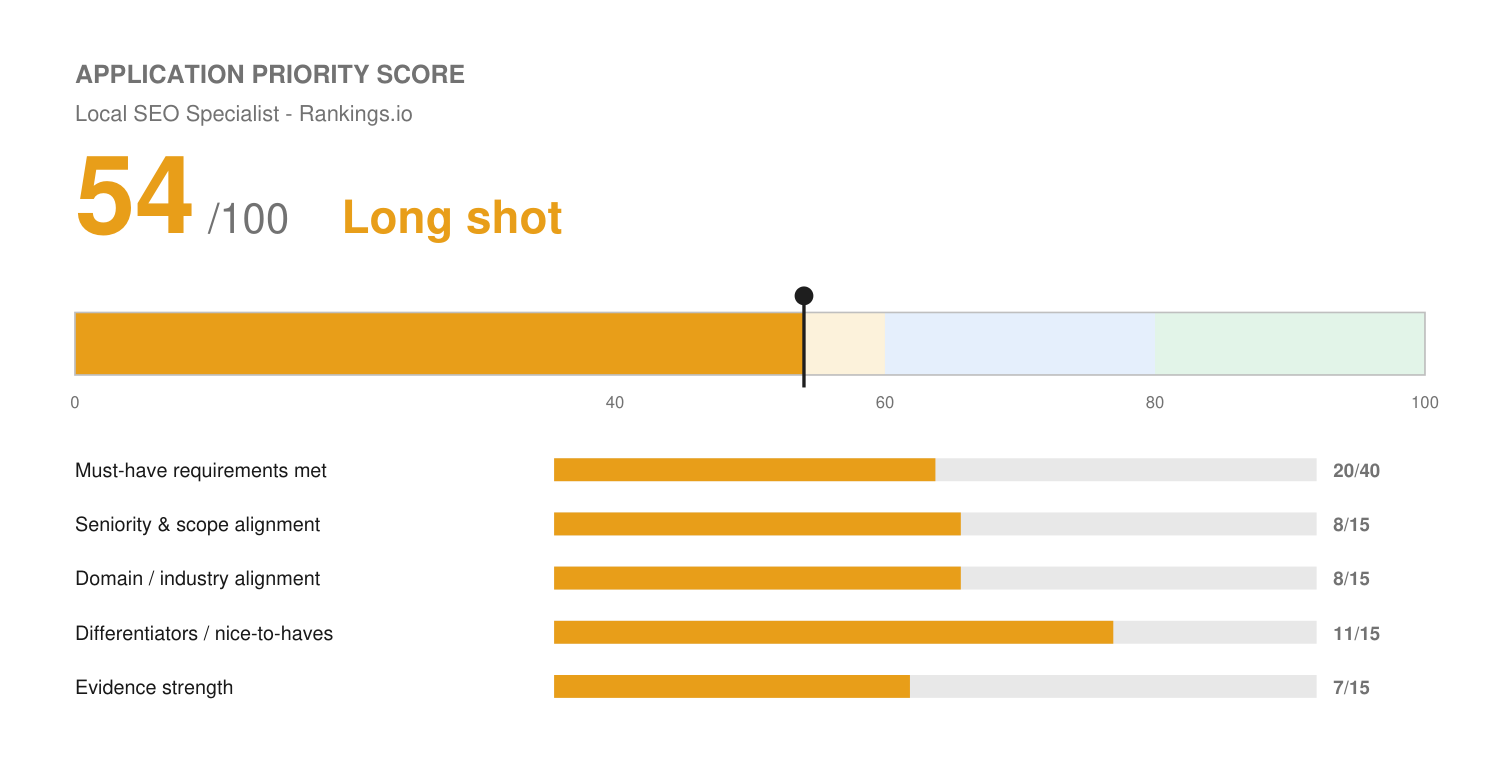
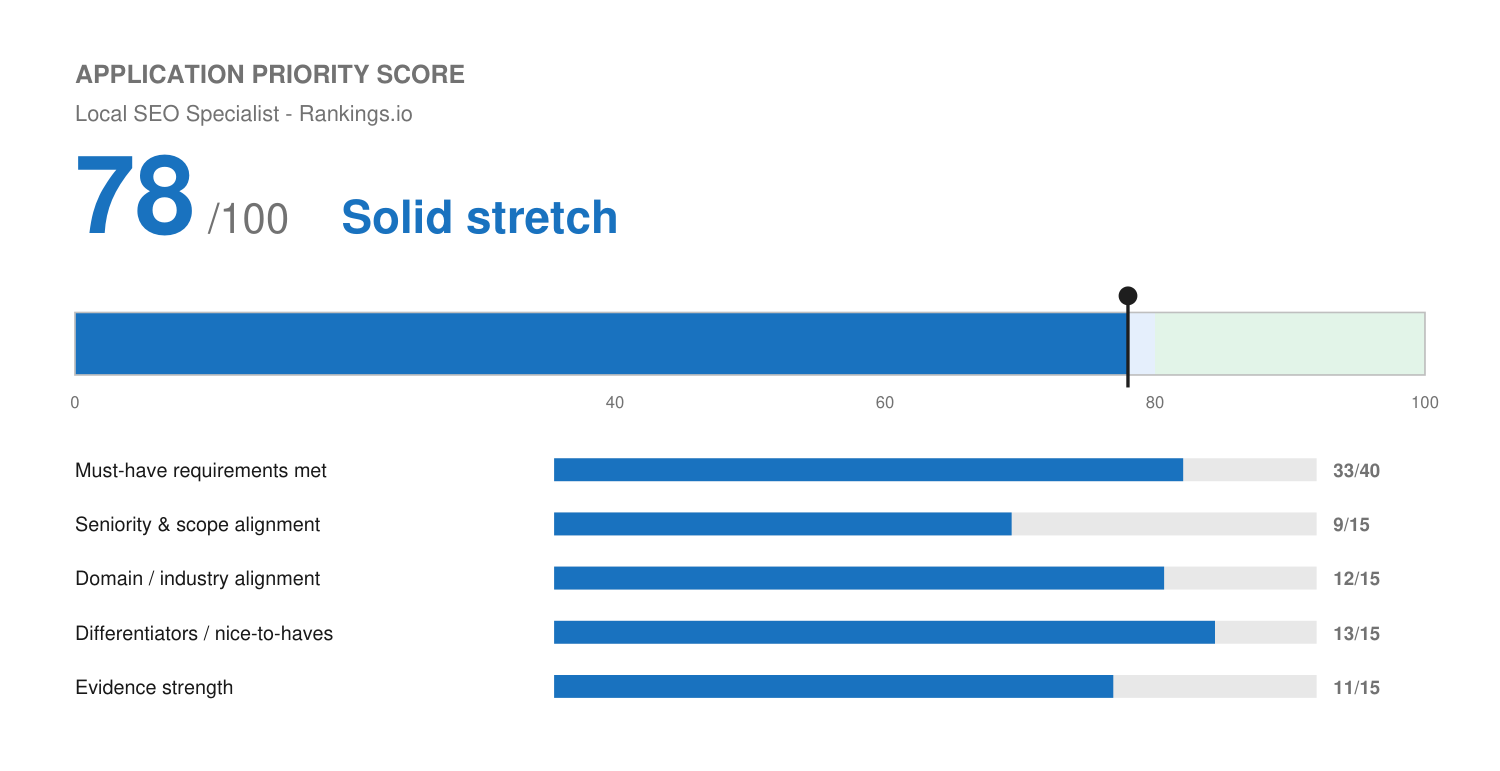
Correct GBP/local-listings experience across profile and Rankings.io app
Josh corrected a real error: GBP/local-listings management was
classified as a gap, but it's core, sold professional experience. At
Solenzo it's the first deliverable in every client engagement; at
Birdeye, selling and onboarding partners onto Birdeye's own
data-aggregator/listings-syndication solution was the backbone of the
channel offer he sold, and his actual entry into local search. He also
used Whitespark's citation research as sales enablement, and confirmed
his Wix growth consultations included GBP setup.

Updated master-profile.md (Solenzo, Birdeye, Wix bullet banks and Core
Competencies) so this is available for every future local-SEO-adjacent
posting. Rewrote the Rankings.io resume and cover letter to lead with
this experience instead of hedging around it. Score moved 54 -> 78
(Long shot -> Solid stretch) — a correction, not inflation.

Claude-Session: https://claude.ai/code/session_01HeZspKnLVkWbr9yhNEisQZ

diff --git a/applications/rankings-io-local-seo-specialist/match-report.md b/applications/rankings-io-local-seo-specialist/match-report.md
@@ -3,7 +3,20 @@
 **Company:** Rankings.io (SEM services for 300+ personal injury and other high-stakes law firms; founded 2013, ~180 employees)
 **Location:** St Louis, Remote (Fully Remote)
 **Salary:** Starting $55,000/year
-**Date:** 2026-09-15
+**Date:** 2026-09-15 (updated same day after Josh corrected an undersold section — see note below)
+
+---
+
+## Correction note
+
+The first pass of this match report classified GBP/local-listings management as a **gap**. That was wrong. Josh
+corrected it directly: GBP setup and optimization is the **first deliverable in every Solenzo client engagement**
+(a core, sold service line, not incidental), and at Birdeye, selling and onboarding partners onto Birdeye's own
+proprietary data-aggregator/listings-syndication solution was **the backbone of the channel offer** he sold,
+his actual professional introduction to local search. He also used Whitespark's published citation research as
+sales-enablement material, and confirmed his Wix growth consultations included setting up clients' Google
+Business Profile alongside their site builds. This has been corrected in `profile/master-profile.md` so it's
+available for every future local-SEO-adjacent posting, and the score below reflects the correction.
 
 ---
 
@@ -11,80 +24,89 @@
 
 | Item | Classification | Notes |
 | :--- | :--- | :--- |
-| **Salary expectation (required field)** | **Needs candidate confirmation — flag before applying** | Posting states a *starting* salary of $55,000. That's meaningfully below typical comp for 15+ years of account-management/marketing experience. Worth deciding your real number before applying rather than anchoring low by default — if $55K–$65K genuinely works for you, say so; if not, this is worth weighing before you invest time in their multi-stage process. Not answered on your behalf. |
+| **Salary expectation (required field)** | **Needs candidate confirmation — flag before applying** | Posting states a *starting* salary of $55,000. That's meaningfully below typical comp for 15+ years of account-management/marketing experience. Worth deciding your real number before applying rather than anchoring low by default. Not answered on your behalf. |
 | Work authorization (no visa sponsorship) | Application-form | No issue — U.S. citizen. Honest answer: yes, authorized, no sponsorship needed. |
 | Background check | Application-form | Nothing on file that would be disqualifying. Honest answer is yours to give, not assumed here. |
-| Willingness to complete a one-way video interview | **Candidate confirmation** | A personal-preference question, not an eligibility fact — some candidates dislike this format. Your call. |
+| Willingness to complete a one-way video interview | **Candidate confirmation** | A personal-preference question, not an eligibility fact. Your call. |
 | Remote work | Resume-evidenced / no issue | Fully remote, consistent with your own constraint. |
 | 1-2+ years agency SEO experience | Resume-evidenced | Met — Level Agency (agency), plus 4 years of SEO experience overall (Verified Metrics). |
-| 2+ years local SEO / listings management for enterprise brands | **Gap — central to the role** | No GBP, Google My Business, citation-management, or multi-location/enterprise local-listings experience anywhere in the profile. |
+| 2+ years local SEO / listings management for enterprise brand(s) | **Covered (strong), updated** | GBP/listings work is a core, sold service at Solenzo and was the backbone of the channel offer Josh sold at Birdeye. Real gap remaining: this has been for individual local service businesses and Birdeye's partner network, not a single large multi-location enterprise brand — named honestly in the cover letter. |
 | 2 years client-facing experience | Resume-evidenced | Far exceeded — 15+ years. |
-| Local SEO best practices, GBP API, listings management | **Gap** | Same as above — the role's single most specific, central requirement. |
-| Reviews/ratings/citations familiarity | Covered (adjacent, real) | Genuine review-generation-workflow building at Solenzo (automated review-generation sequences, low-reviews campaigns) and reputation-management domain exposure at Birdeye (onboarded partners onto a reputation-management/local-marketing platform). Not literal citations/data-aggregator experience. |
+| Strong knowledge of Local SEO best practices, GMB, GBP API, managing/optimizing local listings | **Covered (strong), updated** | Direct, hands-on GBP setup/optimization (Solenzo) plus data-aggregator/listings-solution sales and onboarding (Birdeye). GBP API-level technical/developer knowledge specifically is unconfirmed — flagged, not claimed. |
+| Reviews/ratings/citations familiarity | Covered (strong) | Review-generation-workflow building at Solenzo, citation research (Whitespark) used professionally at Birdeye, reputation-management platform sales at Birdeye. |
 | Keyword research/competitive analysis tools (Semrush, Ahrefs) | Resume-evidenced | Direct match — both tools are in the Core Competencies Bank. |
 | Google Apps proficiency | Resume-evidenced | Documented. |
-| Website/CMS experience | Covered (adjacent) | Deep Wix (CMS) experience; general "implementing fixes directly inside client CMS platforms" at Solenzo. Not specifically WordPress/Shopify/Magento (listed as "a plus," not required). |
+| Website/CMS experience | Covered (adjacent) | Deep Wix (CMS) experience, including connecting clients' GBP during site builds; general CMS fixes at Solenzo. Not specifically WordPress/Shopify/Magento (listed as "a plus," not required). |
 
-**No eligibility cap applied** — no work-authorization, location, or license blocker. The core gap (local SEO/GBP-specific experience) is a real must-have shortfall reflected in the score, not a hard eligibility failure of the kind that triggers the cap.
+**No eligibility cap applied** — no work-authorization, location, or license blocker.
 
 ---
 
 ## Application Priority Score
 
 ```
-🟡 Application Priority Score: 54 / 100 — Long shot
-[███████████░░░░░░░░░]  54%
+🔵 Application Priority Score: 78 / 100 — Solid stretch
+[████████████████░░░░]  78%
 ```
 *Internal decision aid — not a prediction of Rankings.io's own screening outcome.*
 
+**Updated Sep 2026:** originally scored 54/100 (Long shot) on a first pass that mischaracterized GBP/local-listings
+work as a gap. Corrected after Josh clarified this is core, sold, professional experience at both Solenzo and
+Birdeye — a legitimate, large jump, not score inflation.
+
 | Dimension | Score | Max | Why |
 | :--- | :--- | :--- | :--- |
-| Must-have requirements met | 20 | 40 | Strong on agency SEO tenure, client-facing years, and keyword-research tools. The role's most specific, central requirement — GBP/local-listings management for enterprise brands — is a genuine gap. |
-| Seniority & scope alignment | 8 | 15 | An IC specialist role at a notably lower salary band than Josh's typical range, but the actual scope (own a client's SEO program end to end) matches his founder/multi-client experience reasonably well. |
-| Domain / industry alignment | 8 | 15 | No law-firm/legal vertical experience, but real local-business marketing and reputation-management domain exposure via Birdeye and Solenzo's home-services clients. |
-| Differentiators / nice-to-haves | 11 | 15 | Technical SEO depth (Screaming Frog, schema/structured data), review-generation workflow building, AI/automation systems experience, direct-response copywriting for local content. |
-| Evidence strength | 7 | 15 | Concrete for general technical SEO; real but not deeply quantified for reviews/reputation; zero for GBP-specific work. |
+| Must-have requirements met | 33 | 40 | Strong on agency SEO tenure, client-facing years, keyword-research tools, and now GBP/local-listings/data-aggregator experience directly. Remaining gap: scale (individual local businesses and a partner network, not a single enterprise multi-location brand) and unconfirmed GBP API-level technical knowledge. |
+| Seniority & scope alignment | 9 | 15 | An IC specialist role at a notably lower salary band than Josh's typical range; the real, sold GBP/listings work shows genuine specialist-level depth within his broader founder role, which helps the scope match slightly. |
+| Domain / industry alignment | 12 | 15 | Real, professional local-business-marketing and local-listings domain experience via Birdeye and Solenzo's home-services clients. Still no law-firm/legal vertical experience specifically. |
+| Differentiators / nice-to-haves | 13 | 15 | GBP/listings-first service delivery, data-aggregator sales experience, technical SEO depth (Screaming Frog, schema), review-generation workflow building, AI/automation systems experience. |
+| Evidence strength | 11 | 15 | Now backed by "first deliverable in every engagement" (sold offering) and "backbone of the channel offer" (Birdeye) — real, substantive claims, though not numerically quantified (e.g., no count of GBP listings managed). |
 
-**Band: Long shot (40–59), upper end** — apply with the tailored resume and cover letter if genuinely interested; the posting explicitly promises a **human resume review** ("Real people, not AI"), which makes an honest cover letter naming the gap directly more likely to land than it would against a pure keyword-matching ATS.
+**Band: Solid stretch (60–79)** — apply with the tailored resume and cover letter. The posting explicitly promises a **human resume review** ("Real people, not AI"), which favors a resume like this one that leads with real, specific, sold GBP/listings experience rather than generic SEO keywords.
 
 ---
 
 ## Requirement Coverage
 
 **Strong matches:**
+- **Google Business Profile / local listings** — core, sold service line at Solenzo (first deliverable in every engagement); backbone of the channel offer sold and onboarded at Birdeye.
+- **Data-aggregator / citation solutions** — sold Birdeye's proprietary data-aggregator/listings-syndication product; used Whitespark's citation research as sales enablement.
 - Technical SEO — audits, keyword gap analysis, schema/structured data, Screaming Frog (Solenzo).
 - Keyword research and competitive analysis — Ahrefs, Semrush (Core Competencies), Level Agency's keyword/search-term research.
 - Client-facing account ownership — 15+ years, far exceeding the 2-year requirement.
-- Reputation/review-management adjacency — automated review-generation workflows (Solenzo), reputation-management platform onboarding (Birdeye).
+- Reviews/reputation management — automated review-generation workflows (Solenzo), reputation-management platform sales (Birdeye).
 
-**Not evidenced (the role's central, specific ask):**
-- Google Business Profile creation, claiming, verification, optimization, or suspension/reinstatement troubleshooting.
-- Data-aggregator vendor coordination for citation growth.
-- Local-listings management for multi-location or enterprise brands.
+**Remaining gaps:**
+- Multi-location/single-enterprise-brand scale specifically (Josh's listings work spans many individual local businesses and a partner network, not one large chain).
+- GBP API-level technical/developer knowledge (unconfirmed either way).
+- No law-firm or legal-services industry experience.
+- GBP suspension/reinstatement troubleshooting specifically (not confirmed).
 
 ---
 
 ## Top Strengths for This Role
 
-1. **Real technical SEO depth** — Screaming Frog audits, schema/structured data, on-page fixes. Most local SEO specialists don't carry this level of technical grounding.
-2. **Genuine reputation-management domain exposure** — both building review-generation workflows himself (Solenzo) and having onboarded partners onto a reputation-management platform professionally (Birdeye).
-3. **Client ownership at scale** — reporting, retention, and account growth are exactly what the role asks for beyond the GBP mechanics, and this is where Josh's 15+ years carries the most weight.
+1. **Direct, professional, sold GBP and local-listings experience** — the single most important correction to this application. This is now the resume's lead proof point, not an absence.
+2. **Real data-aggregator/citation domain knowledge** — sold Birdeye's own listings-syndication product and used Whitespark's citation research professionally.
+3. **Technical SEO depth** layered on top — Screaming Frog audits, schema/structured data — most local SEO specialists don't carry this.
+4. **Client ownership at scale** — 15+ years of reporting, retention, and account growth.
 
 ## Gaps
 
-- No hands-on Google Business Profile / Google My Business experience.
-- No citation-management or data-aggregator-vendor experience.
-- No multi-location/enterprise-brand local-listings experience.
+- Enterprise/multi-location-brand scale specifically.
+- GBP API-level technical knowledge (unconfirmed).
+- GBP suspension/reinstatement troubleshooting (unconfirmed).
 - No law-firm or legal-services industry experience.
 
 ## Candidate Confirmation Needed
 
 - Real salary expectation, given the posting's $55K starting figure — see the top eligibility item.
 - Comfort with the one-way video interview stage.
+- Any specific counts (number of GBP listings managed, client count) that would sharpen the resume further with a quantified metric.
 
 ## Metrics Needed
 
-None new beyond the standing profile gaps already tracked (Solenzo portfolio size, concurrent workload).
+A count of GBP listings claimed/managed, or a before/after local-visibility metric for a Solenzo or Birdeye client, would strengthen this resume further — flagged for `/excavate-profile`.
 
 ## Referral
 
@@ -94,6 +116,6 @@ None on file — no known Rankings.io connection.
 
 ## Output Files
 
-- `resume.pdf` / `resume.docx` — one page, modern style, reverse-chronological, honest about the GBP/local-listings gap (no overclaiming). Also saved as `Rotenberg Resume - Rankings.io - Local SEO Specialist.pdf/.docx`.
-- `cover-letter.pdf` / `cover-letter.docx` — one page, names the GBP/local-listings gap directly in the opening line rather than burying it, then pitches the real adjacent strengths. Also saved as `Rotenberg Cover Letter - Rankings.io - Local SEO Specialist.pdf/.docx`.
+- `resume.pdf` / `resume.docx` — one page, modern style, reverse-chronological, now leads with real GBP/local-listings experience. Also saved as `Rotenberg Resume - Rankings.io - Local SEO Specialist.pdf/.docx`.
+- `cover-letter.pdf` / `cover-letter.docx` — one page, leads with the GBP/listings background, names the one remaining honest gap (enterprise/multi-location scale) rather than the previous (incorrect) framing. Also saved as `Rotenberg Cover Letter - Rankings.io - Local SEO Specialist.pdf/.docx`.
 - `fit.json` / `fit.png` — Application Priority Score meter.

diff --git a/profile/master-profile.md b/profile/master-profile.md
@@ -202,6 +202,14 @@ operator talking, not like a candidate performing.
 > having worked at a manufacturers' rep agency, manufacturer, or industrial distributor
 > (the supply side of that channel) — keep that distinction honest when a posting asks
 > specifically for rep/distributor-side experience versus trade-business-side experience.
+>
+> **Local SEO / Google Business Profile is a core, sold service line (confirmed by Josh,
+> Sep 2026) — correcting an earlier undersell:** GBP/local-listings setup and
+> optimization (claiming, verifying, categories, descriptions, services, photos, posts)
+> is the *first* component of Josh's service package for Solenzo clients, not an
+> incidental or occasional task. This is direct, professional, hands-on local SEO
+> experience, sold and delivered, and should be represented as a lead qualification for
+> any local SEO / GBP / local-listings-management posting, not as an "adjacent" skill.
 
 **Strategic & Client Leadership**
 - Own the primary strategic relationship for a portfolio of service-based businesses, running discovery and onboarding to surface client goals, objectives, and market challenges.
@@ -211,6 +219,7 @@ operator talking, not like a candidate performing.
 - Document every client interaction, timeline, and deliverable in GoHighLevel, HubSpot, and Notion, keeping project records auditable across concurrent engagements.
 
 **Marketing & Growth Systems**
+- Claim, set up, and optimize Google Business Profile listings (categories, descriptions, services, photos, posts) as the first deliverable in every client engagement, the foundation the rest of each client's local SEO and lead-flow program builds on.
 - Develop and execute full-lifecycle customer strategies spanning demand generation, sales CRM architecture, and customer success, demonstrating clear ROI and revenue growth.
 - Architect and deploy autonomous, AI-driven marketing systems for service-based businesses — largely on GoHighLevel — automating lead enrichment, outreach, and appointment booking.
 - Break down manual marketing workflows into agent architectures with custom logic that scores a business's digital footprint and generates hyper-personalized outreach.
@@ -255,6 +264,19 @@ operator talking, not like a candidate performing.
 > **Healthcare-vertical channel sales (confirmed by Josh, Sep 2026):** a meaningful share of that partner book was channel sales specifically to agencies focused on healthcare clients — B2B channel/reseller sales into the healthcare vertical, not direct patient-facing or clinical healthcare work (no claims, EMR, or payer-side experience). Genuine healthcare-adjacent industry exposure, honestly scoped as B2B marketing-technology sales to healthcare-focused agencies, not healthcare operations.
 >
 > **Channel rep framing (confirmed by Josh, Sep 2026):** the role title itself is "Channel Partnerships," and the underlying work, managing a network of independent reseller partners rather than selling direct, is genuine channel-rep-model experience. Usable for postings that specifically ask about channel/reseller/partner-network experience, distinct from direct account management. Still a SaaS reseller channel, not an industrial/manufacturers'-rep channel — don't blur the two when a posting is industry-specific.
+>
+> **Local listings/data-aggregator solution was the backbone of the channel offer
+> (confirmed by Josh, Sep 2026) — correcting an earlier undersell:** Birdeye had its own
+> proprietary data-aggregator/listings-syndication solution, and making sure every
+> channel partner's end customer was set up with that listings solution was the backbone
+> of the offer Josh sold and onboarded partners on, full stop. This was Josh's actual
+> professional introduction to the SEO/local-search space. He also used Whitespark's
+> published whitepapers as sales-enablement material to sell that listings solution, real,
+> informed exposure to citation/data-aggregator concepts from a top industry source, even
+> though Whitespark itself wasn't the platform he operated. Represent this as direct,
+> professional local-listings/data-aggregator experience, not as generic "reputation
+> management" adjacency.
+- Sold and onboarded partners on Birdeye's proprietary data-aggregator/listings-syndication solution, the backbone of the channel offer, ensuring every partner's end customer had a properly configured local-listings presence.
 - Led onboarding and training for a diverse, high-volume partner network, driving rapid adoption of marketing automation and reputation management solutions.
 - Onboarded and managed **15–20 reseller partners** (deal sizes ~$10K–$45K, spanning health, home services, and retail verticals), **retaining all but one (~94% retention)** during tenure.
 - Advised partners on retention strategy, customer health metrics, and automated workflows, equipping them to communicate product value.
@@ -277,7 +299,7 @@ operator talking, not like a candidate performing.
 - Carried a combined sales and implementation load in year two, after the role expanded from a primarily sales focus in year one.
 - Directly managed and developed a team of onboarding specialists for **2 years — a team of 20, later a team of 8** — overseeing budgets, scope, and delivery for a high-value client portfolio. *(Scale and duration confirmed by Josh, Aug 2026.)*
 - Labeled and defined the CRM fields required for outbound sales and onboarding workflows, standardizing data capture across the team. *(Confirmed by Josh, Sep 2026.)*
-- Led digital growth consultations aligning site architecture, inbound marketing, and SEO best practices to improve client traffic and conversion.
+- Led digital growth consultations aligning site architecture, inbound marketing, and SEO best practices to improve client traffic and conversion, including connecting and setting up clients' Google Business Profile alongside their site build. *(Confirmed by Josh, Sep 2026.)*
 - Managed a high-value account portfolio across diverse verticals, contributing to a **30% increase in website traffic** and **25% improvement in conversion rates** across the e-commerce segment.
 - Led onboarding and launch operations as team lead and primary strategic contact, delivering launches on time and accelerating time-to-value.
 - Drove a **25% improvement in conversion rates across supported accounts** through proactive communication on client goals and initiatives.
@@ -338,7 +360,7 @@ operator talking, not like a candidate performing.
 | Category | Competencies |
 | :--- | :--- |
 | CRM & Marketing Automation | GoHighLevel (primary) CRM & Automation Architecture, HubSpot, Salesforce, Workflow Design, Segmentation, Data Hygiene, Lifecycle Stages, Lead Routing |
-| Growth & Demand Generation | Full-funnel acquisition, Lifecycle Marketing, CRO, A/B Testing, Paid Media, Paid Social (Meta Ads certified), SEO, Email Marketing, Landing Pages |
+| Growth & Demand Generation | Full-funnel acquisition, Lifecycle Marketing, CRO, A/B Testing, Paid Media, Paid Social (Meta Ads certified), SEO, Local SEO & Google Business Profile Management, Data-Aggregator/Listings Solutions, Email Marketing, Landing Pages |
 | Analytics & Reporting | GA4, Google Search Console, Google Tag Manager, Ahrefs, Semrush, Campaign Attribution, ROI Dashboards, QBRs, KPI Tracking |
 | AI & Automation | Agentic AI, Multi-agent orchestration, LLM workflows, ChatGPT, Claude, Prompt Design, Requirements-to-Prompt Translation, Stakeholder Elicitation, Rapid Prototyping |
 | Customer Success | Onboarding Strategy, Churn Prevention, Time-to-Value Reduction, NPS, Retention, Upsell Identification, Success Plans |
